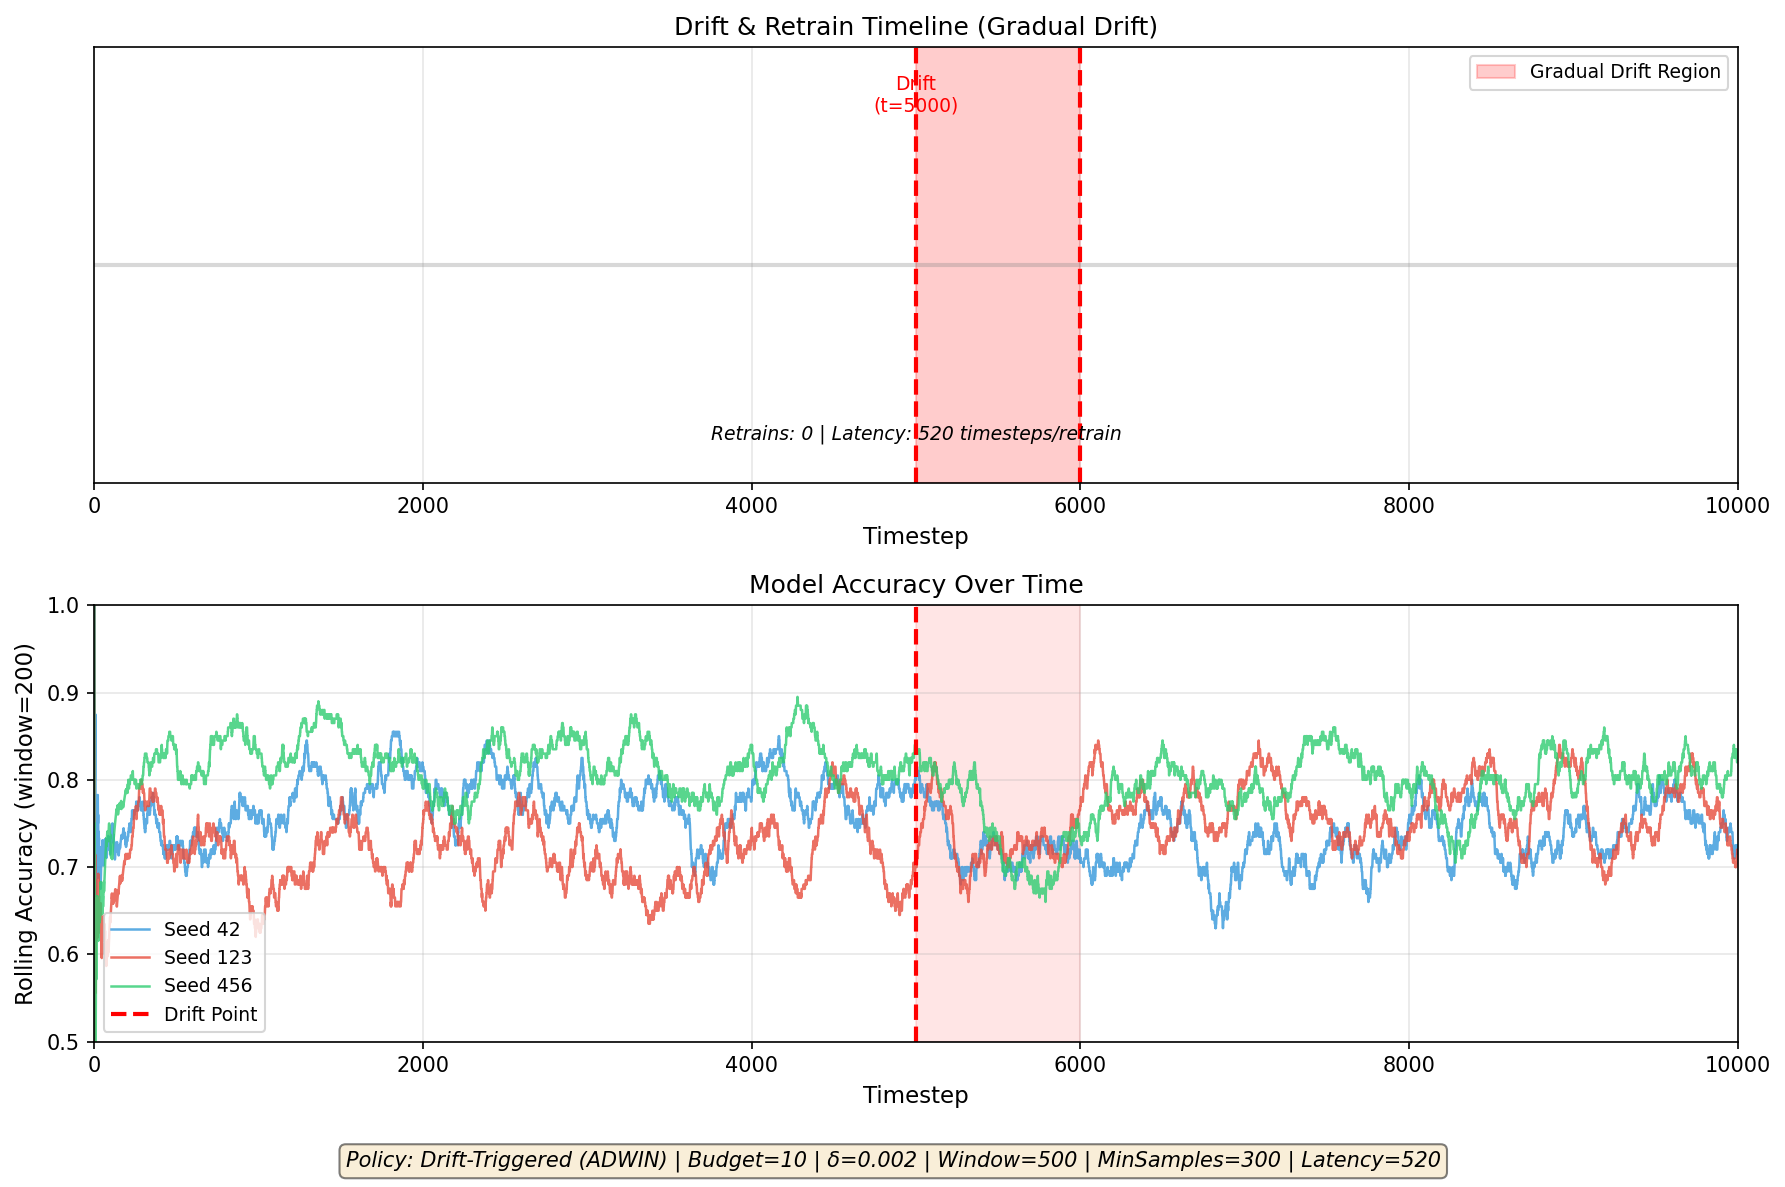
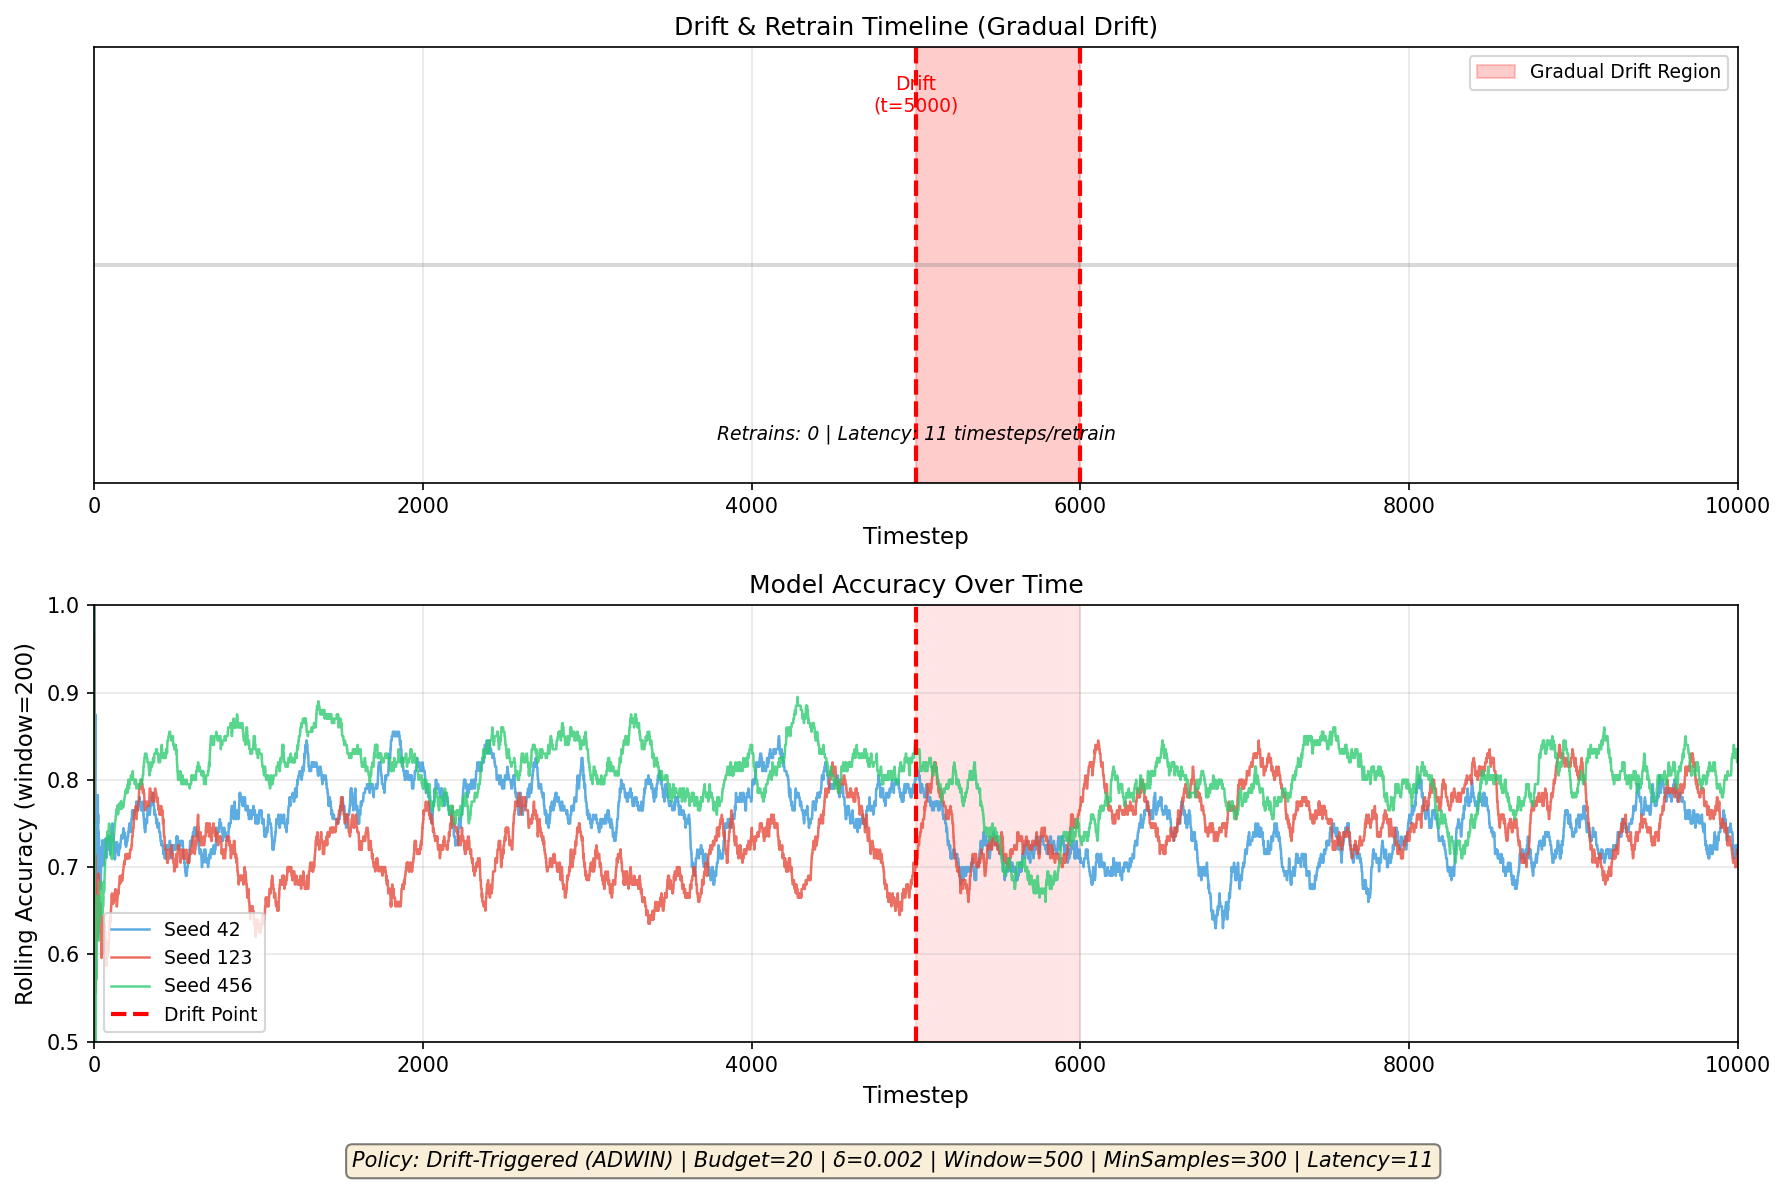
week 6: ran experiment with drift triggered retrain policy with gradual drift, high budget and low latency

Changed region(s): [[0.1849, 0.9663, 0.8319, 0.9975], [0.4006, 0.3429, 0.6162, 0.3741]]

diff --git a/main.py b/main.py
@@ -43,11 +43,11 @@ def main():
         #   delta=0.002: confidence parameter for Hoeffding bound (lower = less sensitive)
         #   window_size=500: max recent errors considered for drift detection
         #   min_samples=300: minimum observations before detection activates
-        #   budget=10: allows up to 10 retrains during the experiment
-        # - High latency: retrain_latency=500, deploy_latency=20
+        #   budget=20: allows up to 20 retrains during the experiment
+        # - Low latency: retrain_latency=10, deploy_latency=1
         # - MetricsTracker: Records prediction accuracy/errors over time
         model = StreamingModel()
-        policy = DriftTriggeredPolicy(delta=0.002, window_size=500, min_samples=300, budget=10, retrain_latency=500, deploy_latency=20)
+        policy = DriftTriggeredPolicy(delta=0.002, window_size=500, min_samples=300, budget=20, retrain_latency=10, deploy_latency=1)
         metrics = MetricsTracker()
 
         # Set metadata in metrics for post-analysis
